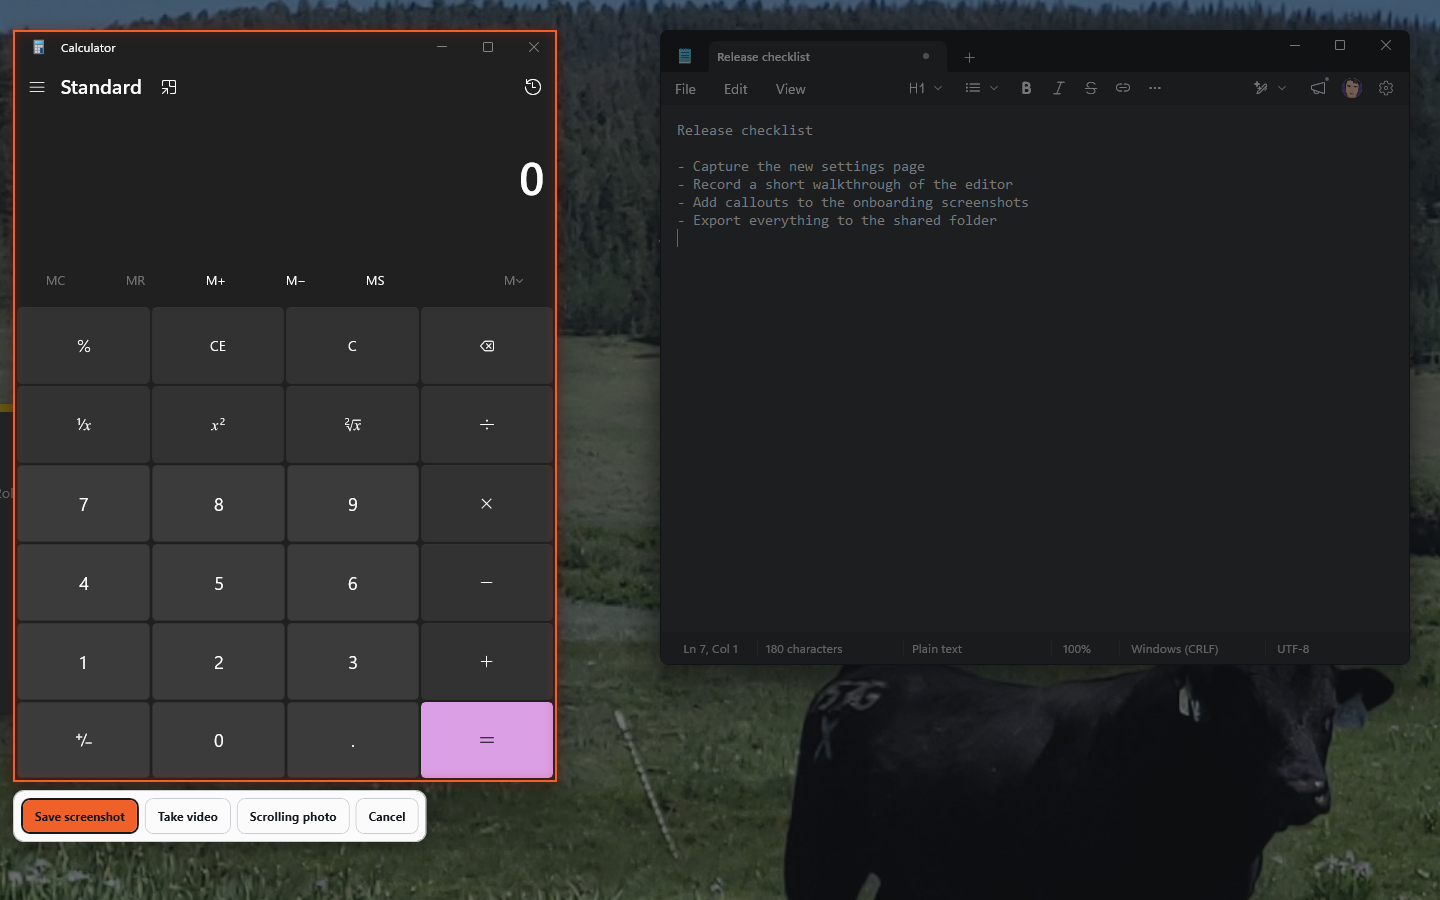
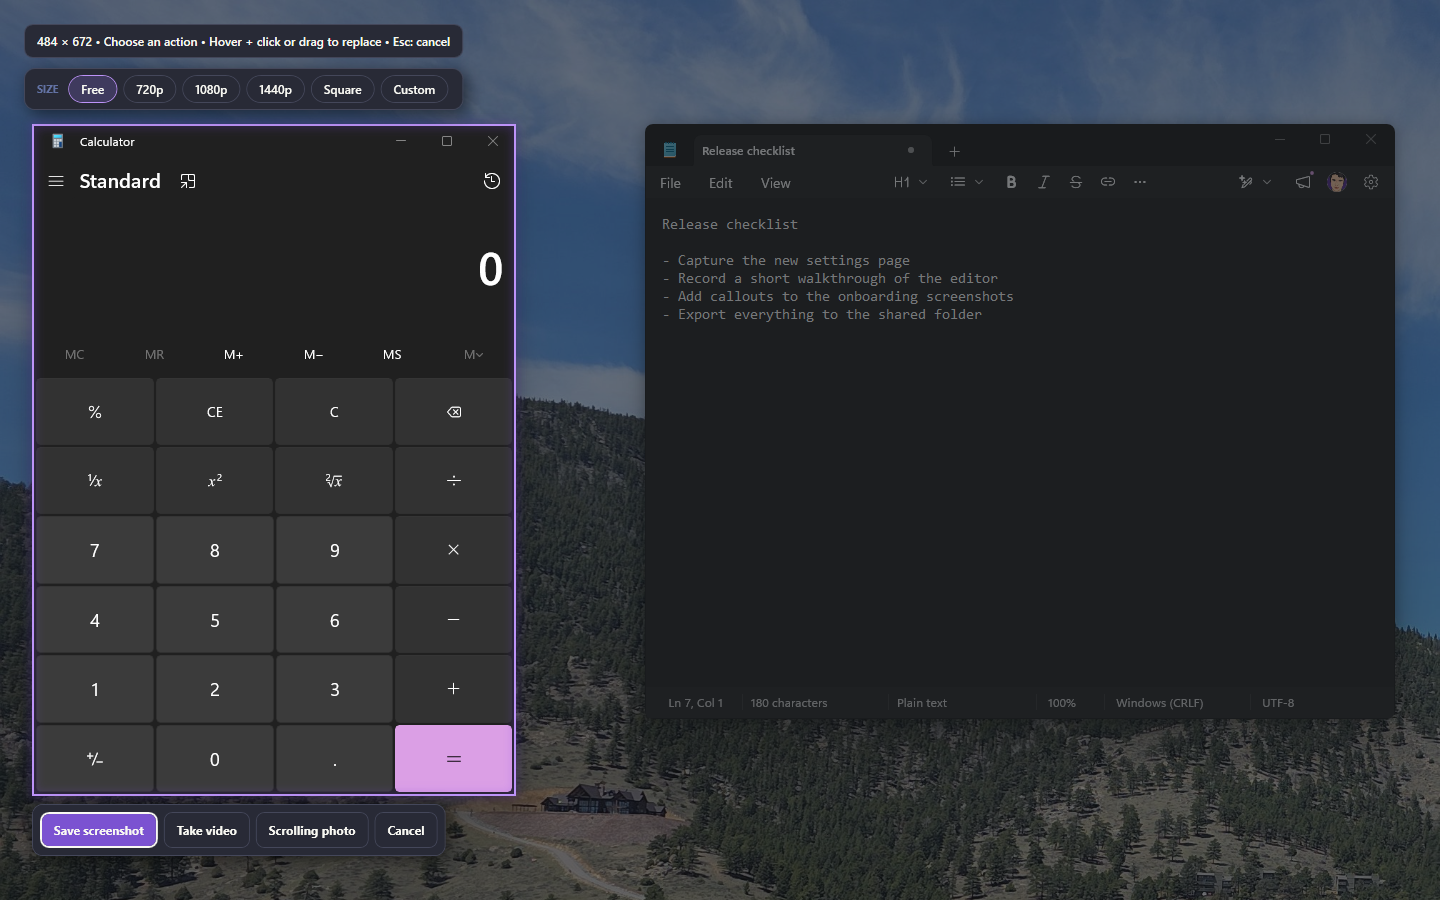
Refresh README screenshots and text for 0.1.2
All six screenshots are retaken in the dark theme with the new launcher,
editor layout and gallery, and a seventh shows the region tool's fixed
size frame. The README now covers the size bar, callouts, stamps, blur
and pixelate, the canvas dialogs, resizable gallery panes and the editor
tool keys.

diff --git a/README.md b/README.md
@@ -15,9 +15,11 @@ Vibershot is a small, fast capture tool. Press a key, pick what you want on scre
 - **One key, any part of the screen.** Print Screen or Ctrl+Shift+S opens the capture tool over whatever you are looking at.
 - **Smart selection.** Hover and Vibershot outlines the window, panel or page content under the cursor. Click to take it, or drag your own region.
 - **Still or moving.** The same selection becomes a screenshot, an MP4 recording or a stitched scrolling capture.
-- **Edit without losing anything.** Arrows, shapes, text, crops and layers stay editable in the Vibershot project format.
+- **Exact sizes when you need them.** Pick 720p, 1080p, 1440p, square or a custom frame and place it with a click.
+- **Edit without losing anything.** Arrows, shapes, text, callouts, stamps, crops and layers stay editable in the Vibershot project format.
+- **Hide what is private.** Blur or pixelate part of a picture; the hidden pixels are really gone from the export.
 - **A home for every capture.** The gallery keeps everything, with search, tags and favourites.
-- **Lightweight.** A native Windows app that sits in the tray and does nothing until you ask it to.
+- **Lightweight.** A native Windows app with a dark theme that sits in the tray and does nothing until you ask it to.
 
 ## Capture any region
 
@@ -29,6 +31,10 @@ Once you have a selection, choose what happens next: save a screenshot, record t
 
 ![Pick a screenshot, video or scrolling photo from the selection](docs/images/capture-chooser.png)
 
+Need an exact size? The **Size** bar at the top of the capture tool swaps the free selection for a fixed frame: 720p, 1080p, 1440p, square, or a custom width and height that Vibershot remembers. The frame follows the pointer; click to place it, and click again elsewhere to move it.
+
+![A fixed 1280 × 720 frame placed over two windows](docs/images/region-size.png)
+
 After a capture, Vibershot does what you have told it to: save to the library, copy to the clipboard, open the editor, open the gallery, or just show a small preview with **Copy**, **Save as…** and **Edit**. Presets switch between "quick copy", "save to library", "save and edit" and "save and review" in one click.
 
 ## Record video
@@ -39,15 +45,24 @@ Choose **Take video** and the selected region is recorded as an H.264 MP4 at the
 
 ## Annotate in the editor
 
-Captures open in a layered editor. Draw arrows, rectangles, ellipses and lines, add text, callouts and speech bubbles, drop in stamps, place other images, crop, and move anything later. Blur or pixelate anything private with a brush or a box. Start from a blank canvas, add space around a picture, or scale it. Items live on layers that can be hidden, locked, reordered and faded. Marquee-select pixels to lift, move, copy or clear them. Undo and redo cover every step.
+Captures open in a layered editor. Every command is in the menu bar, the common ones sit on the action rail, and each tool is a labelled row on the left that opens its own options when you pick it.
 
-![Annotating a capture with arrows, shapes and text](docs/images/editor.png)
+![Annotating a capture with a callout, a shape, a stamp and a pixelated strip](docs/images/editor.png)
+
+- **Arrows, shapes and text.** Arrows with sharp or rounded heads, rectangles, ellipses, lines and text, each with stroke, fill, opacity and drop shadow. Every slider has a number box beside it for values past the slider's range.
+- **Callouts.** A label with one or more arrows, or a speech, oval or thought bubble. Drag from the thing you are pointing at to where the note should sit, then type.
+- **Stamps.** Ticks, crosses, pointers, stars, warnings and more in a searchable grid. Click to place one or drag to size it.
+- **Blur and pixelate.** Paint with a brush or drag a box over anything that should not be readable, or blur a marquee selection.
+- **Canvas and size.** Start from a blank canvas, add or trim space on any side, scale the whole picture, or crop without throwing pixels away.
+- **Layers.** Items live on layers that can be hidden, locked, reordered and faded. Marquee-select pixels to lift, move, copy or clear them.
+
+Nothing is final: anything you add can be selected, moved and restyled later, and undo and redo cover every step.
 
 Save as a **Vibershot project** (`.vibeshot`) to keep text, shapes and layers editable, or **Export** a flat PNG, JPEG or WebP with a live preview of the compression result. **Copy image** puts the finished picture on the clipboard for pasting anywhere.
 
 ## Find it again in the gallery
 
-Every capture saved to the library shows up in the gallery, grouped by day, with the app and window it came from. Filter by images, videos, projects or favourites, search by file name, app, window title or tag, and sort by date, name or size. Rename, tag, favourite, copy or delete from the keyboard. Drag tiles out to other apps, or drop files in to import them. The gallery can stay open as a home base: **Capture region** in its header starts a new capture and shows the result selected.
+Every capture saved to the library shows up in the gallery, grouped by day, with the app and window it came from. Filter by images, videos, projects or favourites, search by file name, app, window title or tag, and sort by date, name or size. Rename, tag, favourite, copy or delete from the keyboard. Drag tiles out to other apps, or drop files in to import them. Drag the dividers to resize the side rail and the details pane; a wider pane shows a larger preview. The gallery can stay open as a home base: **Capture region** in its header starts a new capture and shows the result selected.
 
 ![The gallery with search, tags and a details pane](docs/images/gallery.png)
 
@@ -74,6 +89,18 @@ Requires Windows 11 (Windows 10 version 2004 or later also works).
 | Open the editor | Set in Settings → Hotkeys |
 
 Every shortcut can be changed in Settings. If you would rather keep Print Screen for Windows, turn the takeover off there.
+
+In the editor, one letter picks each tool:
+
+| Tool | Key | Tool | Key |
+|---|---|---|---|
+| Select | V | Text | T |
+| Marquee | M | Callout | O |
+| Crop | C | Stamp | K |
+| Arrow | A | Blur | B |
+| Shape | S | Image | I |
+
+Ctrl+N opens a new canvas, Ctrl+S saves the project, Ctrl+E exports an image and Ctrl+0 shows the picture at actual size.
 
 ## Build from source
 
